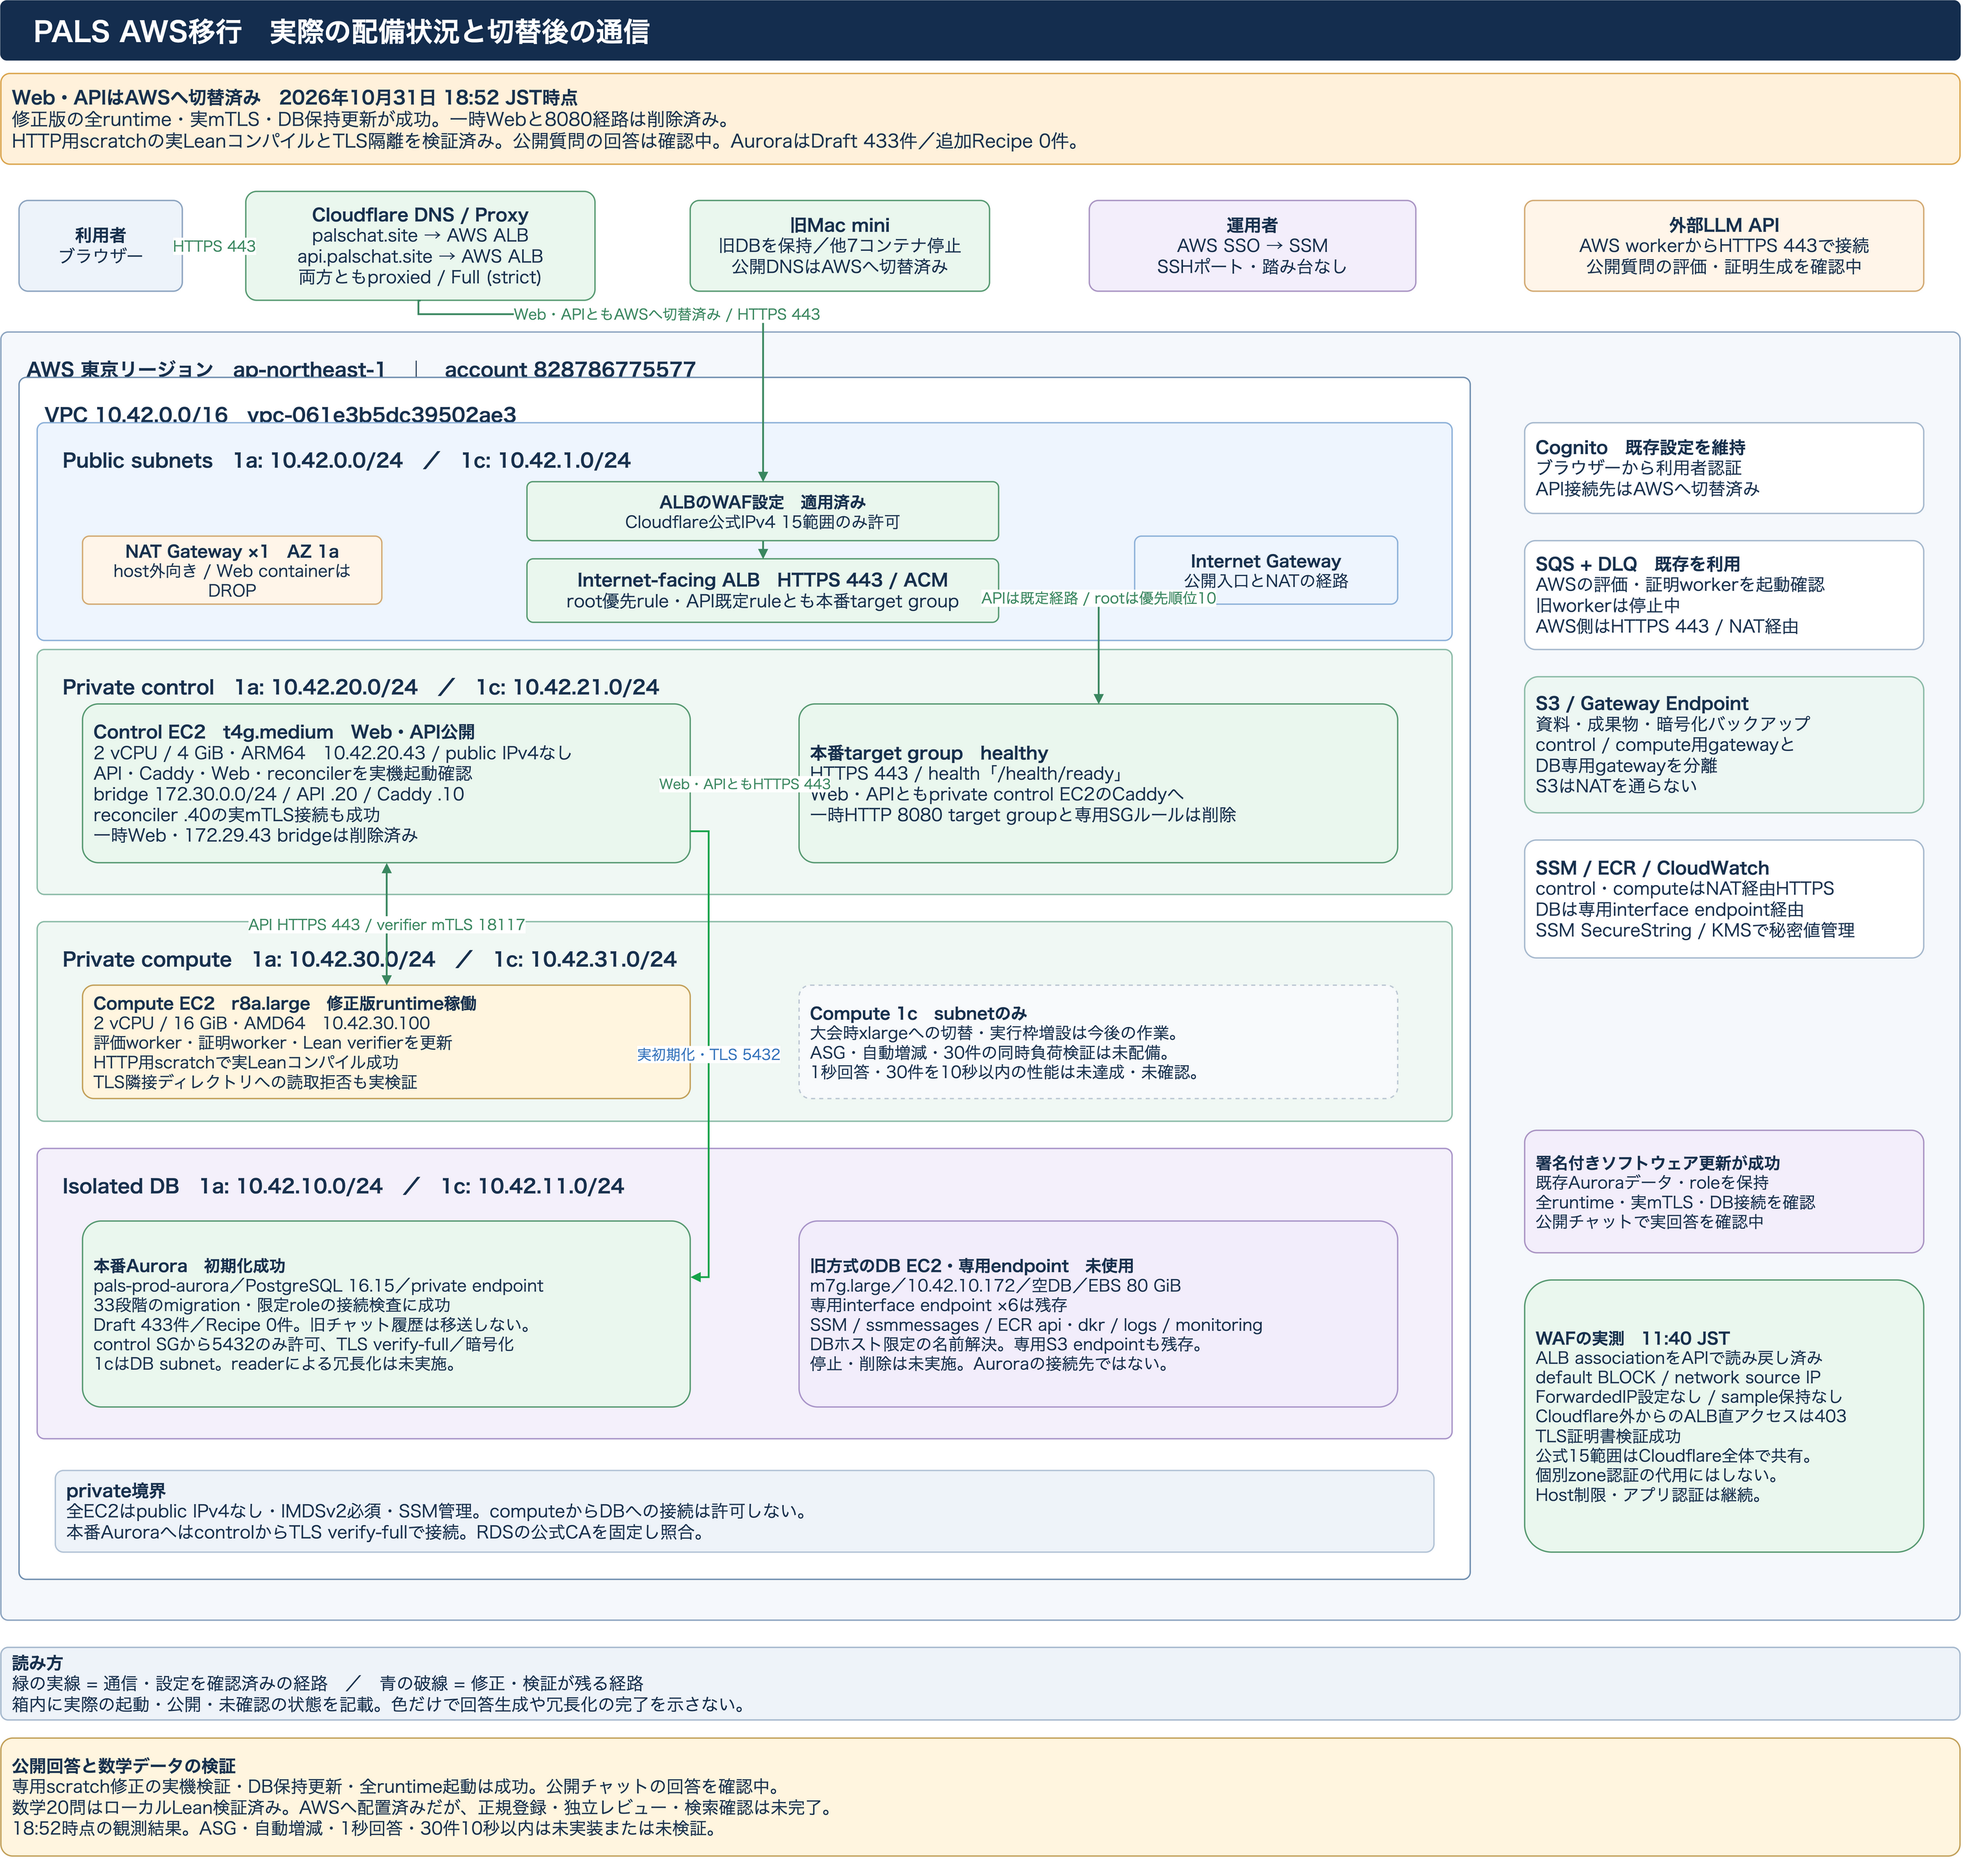
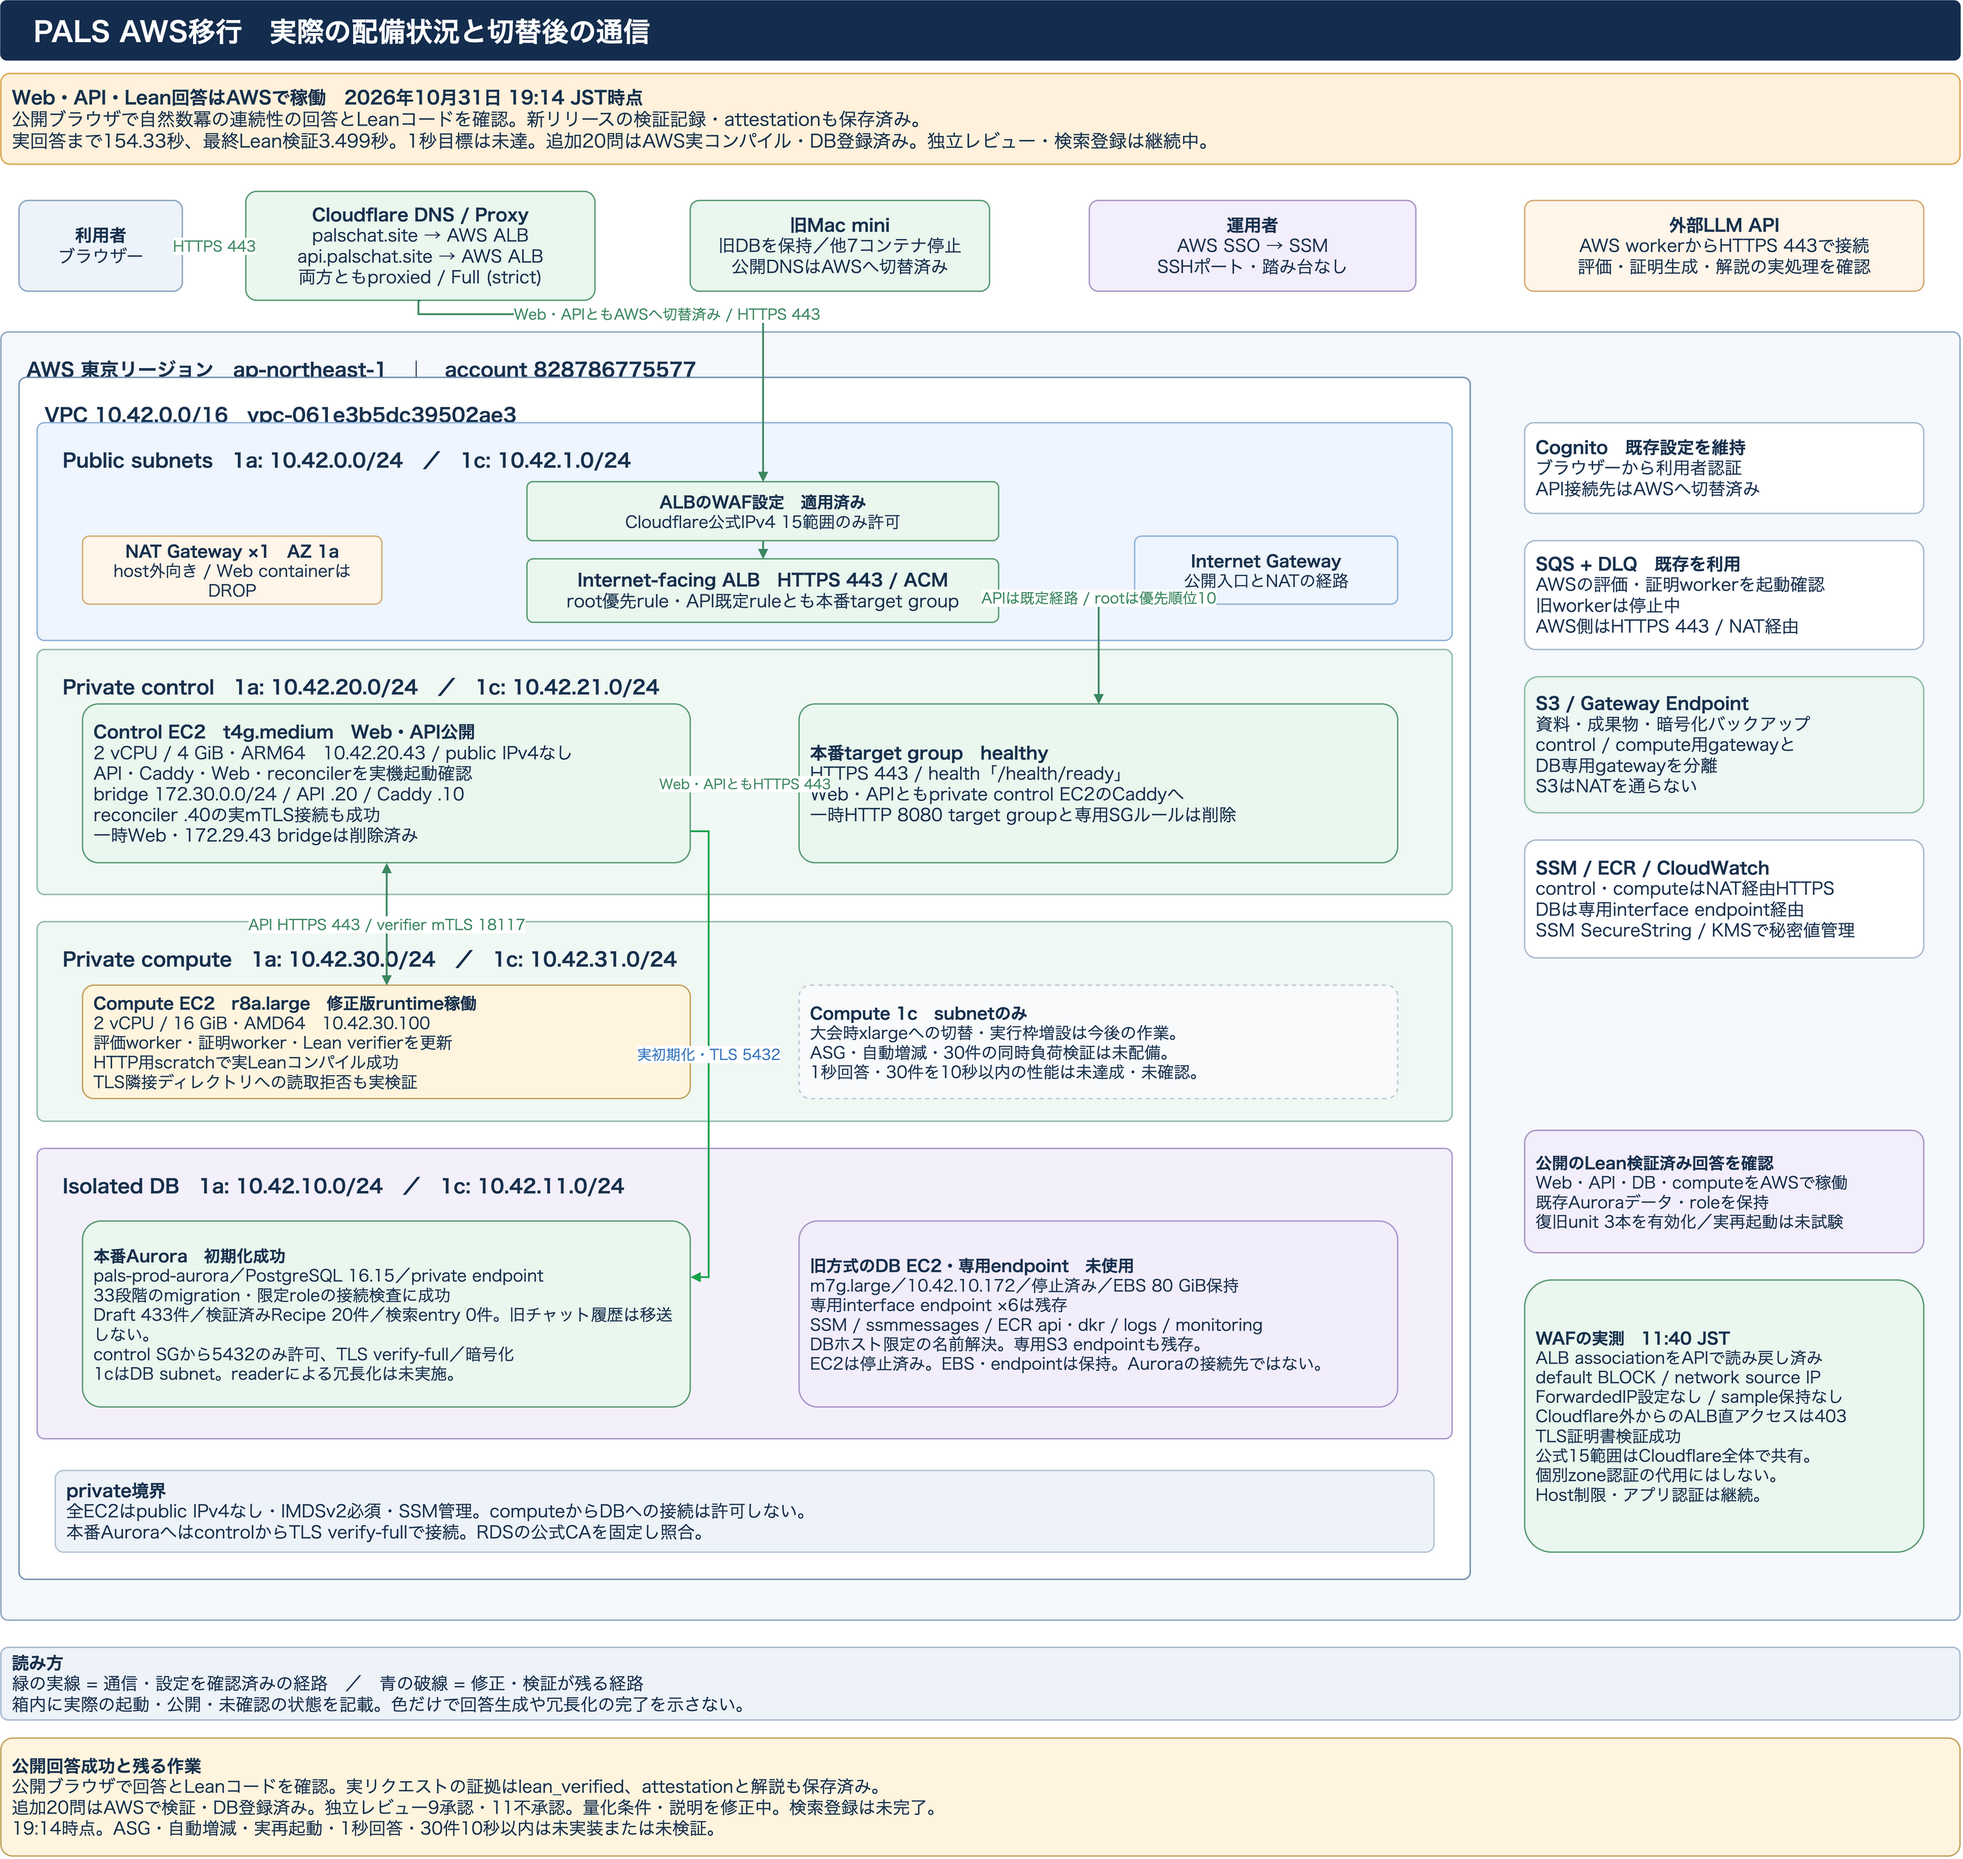
Record AWS recovery setup and pin verified math metadata corrections

diff --git a/docs/aws-migration-runbook-2026-10-30.md b/docs/aws-migration-runbook-2026-10-30.md
@@ -6,6 +6,27 @@
 
 ## 現在の実行状況
 
+19:14 JST時点で、既存サービスの再起動用systemd unitをcontrolに2本、computeに1本配置し、有効化しました。全7コンテナのID・稼働状態・restart policyが前後で変わらないことを確認しています。実際の再起動試験は未実施で、署名の有効期間内に限る復旧処理です。現行署名の期限は11月1日18:33:58 JSTであり、期限後の運用ツールによる再起動には正規の次リリースへの更新が必要です。
+
+本番がAuroraを使うことと接続0件を確認し、未使用の旧方式DB EC2 `i-041db5930304ef5d1`を停止しました。データ用EBSと専用endpointは保持しているため、それらの料金は引き続き発生します。稼働中のcontrol・compute・Auroraは変更していません。
+
+19:05 JST時点の状態は次のとおりです。後続の時刻付き記録と「方針変更前の実行記録」は、各時点の状態を残した履歴です。
+
+| 対象 | 現在の確認結果 |
+| --- | --- |
+| 公開Web・API | 両ドメインをAWSへ切り替え済み。公開ブラウザからゲスト質問と回答表示を確認 |
+| Lean回答 | 自然数冪の連続性で実証明・attestation・Leanコード表示を確認。回答確定まで154.333秒 |
+| 本番DB | Auroraで稼働。初期化seedのDraft 433件に加え、新しいRecipe 20件をAWS実verifierで検証して登録 |
+| Recipe検索 | 独立レビューは3件承認、1件不承認、16件未実施。検索用entryの登録はまだ0件で、20件すべてが回答に再利用できる状態ではない |
+| 料金通知 | 本番アカウントの5通知を設定・読み戻し済み。メールの実配信は未検証 |
+| 運用と性能 | 再起動復旧、通常・大会モード、自動増減は準備中。1秒回答・30人の最終待ち時間10秒以内は未達成・未検証 |
+
[1 lines of base64/hex data omitted]
+
+18:56 JST時点で、公開ブラウザから送った自然数冪の連続性の問題に、回答とLeanコードが表示されることを確認しました。実リクエスト`8bf7b7ed-b672-4cac-a48d-6f29e2039746`は`answered`、証拠は`lean_verified`、証明jobは`verified`でattestationと解説を保存しています。サーバー上の作成から回答確定までは154.333秒、最終Lean検証は3.499秒、コード修正は2回でした。これは回答復旧の証拠であり、1秒回答の達成ではありません。数学20問のAWS登録を続けます。
+
+再起動への備えは未完了です。実コンテナのrestart policyは契約どおり`no`で、ホストにはDockerと認証brokerの起動設定はありますが、アプリ復旧用unitはありません。現在の署名の有効期間が過ぎても、Aurora APIの既存readiness処理が時刻だけで停止する実装ではありません。一方、インフラ運用ツールによる再構築には有効な署名が必要です。失効後は直前の署名を履歴として検証し、連番を進めた正規の更新が必要になります。
+
[1 lines of base64/hex data omitted]
 
[1 lines of base64/hex data omitted]
